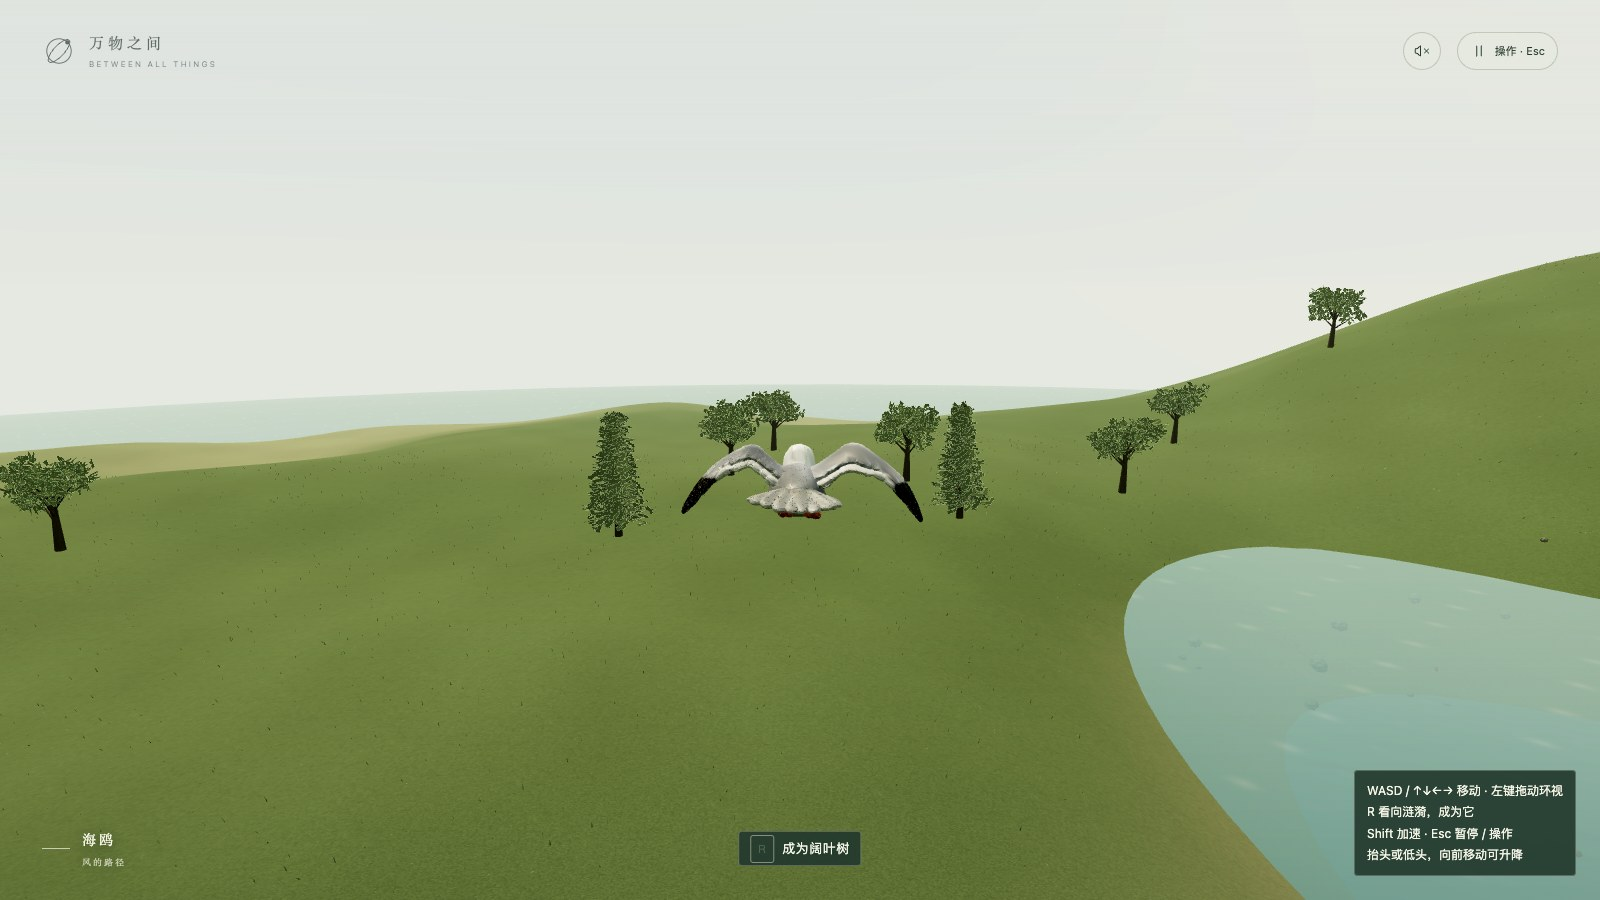
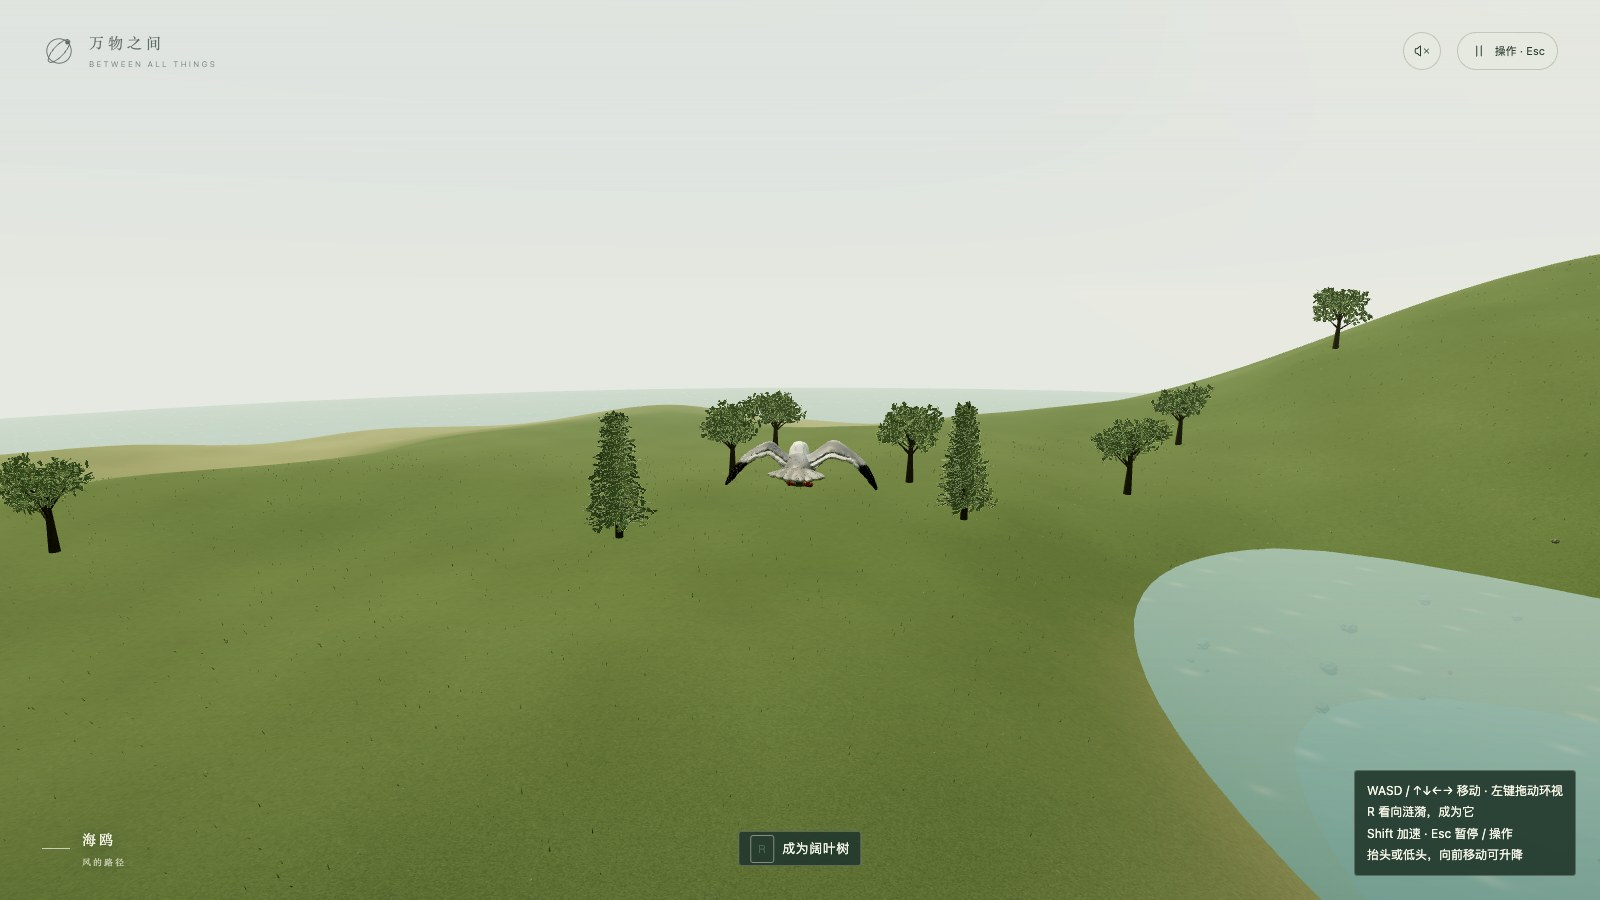
tune: make the gull smaller (body height 0.65 -> 0.32, camera 5 -> 3.5)
Playtest feedback: the gull looked very large from some angles. Wingspan is now
about 1.08 m, matching the scaleTierReason; in-game ambient checks re-run.

diff --git a/assets/lux3d/LUX3D-bird_gull_01/evidence/verify_ambient.py b/assets/lux3d/LUX3D-bird_gull_01/evidence/verify_ambient.py
@@ -107,6 +107,8 @@ assert('a played hatchetfish leaves the school motion to the player',by('silverf
         ('01-gull-low-pass-from-start.jpg', "take('human-first');const t=W.byId.get('gull-0');let k=0;while(k++<200){step(5);const p=t.root.position;if(p.y-W.height(p.x,p.z)<4)break;}g.yaw=.39;g.pitch=.06;step(2);"),
         ('02-gull-flying-high.jpg', "take('gull-1');W.ambient.paused=true;const p=g.player.root.position;p.y=W.height(p.x,p.z)+28;g.pitch=.3;g.yaw=1.4;step(40);g.actions.add('move_forward');step(10);g.actions.delete('move_forward');W.ambient.paused=false;"),
         ('03-hatchetfish-school.jpg', "take('silverfish-0');g.pitch=.05;g.yaw=0;step(30);let best=0;for(let i=0;i<24;i++){g.yaw=i/24*6.283;step(2);}g.yaw=Math.atan2(-(W.byId.get('silverfish-6').root.position.x-g.player.root.position.x),-(W.byId.get('silverfish-6').root.position.z-g.player.root.position.z));step(8);"),
+        ('05-gull-size-next-to-human.jpg', "take('human-first');W.ambient.paused=true;const h=g.player.root.position,t=W.byId.get('gull-0');t.root.position.set(h.x-3.5,h.y+1.6,h.z-7);t.heading=1.2;t.root.rotation.y=1.2;g.yaw=.35;g.pitch=.06;step(20);"),
+        ('06-gull-third-person.jpg', "W.ambient.paused=false;take('gull-2');const p=g.player.root.position;p.y=W.height(p.x,p.z)+14;g.pitch=.12;g.yaw=2.0;step(40);"),
         ('04-discus.jpg', "take('discus-4');const o=W.byId.get('discus-1');g.pitch=.1;step(10);g.yaw=Math.atan2(-(o.root.position.x-g.player.root.position.x),-(o.root.position.z-g.player.root.position.z));step(10);"),
     ]
     for name, body in poses:

diff --git a/project/CHANGELOG.md b/project/CHANGELOG.md
@@ -2,6 +2,15 @@
 
 记录要求与模板见 [CONTRIBUTING](../CONTRIBUTING.md#每次实际修改的变更记录)。每次交付实际修改时更新对应任务条目；新条目置于记录区顶部，同一任务可持续补充，保留他人与历史记录。
 
+## 2026-11-08 · 海鸥体型调小（TUNABLE）
+
+- 负责人：zora-alt111；分支 `asset/fish-birds-v001`，与 D-027 同一 PR。
+- AI：Claude Code（Claude Opus 5.5）负责数值修改、复测与记录；人工：负责人试玩后提出。
+- 原因（试玩反馈）：负责人试玩海鸥 v002 时认为“从某些角度看会变得非常大”，模型本身不够精细，调小观感更好。
+- 旧值 → 新值（`data/entities.json` 的 `bird_gull_01`，B-02／C-05 范围内的数值调整，未改能力、尺度档或关系）：`body.height` 与 `asset.height` 0.65 → 0.32（运行时翼展约 2.20 → 1.08 m，与 `scaleTierReason`“翼展略超 1 m”一致）；`collisionRadius` 0.65 → 0.5；占位碰撞盒按同比例缩小为 `[-0.69, 0, -0.34, 0.69, 0.32, 0.39]`；镜头距离 5.0 → 3.5 m（与鱼相同），描述性的 `camera.height` 0.286 → 0.1408。GLB 文件未重导，由导入器按高度等比缩放。同步 04 种类表。
+- 验证：macOS 14.8.7、Chrome 156：`python3 project/sync_runtime.py`；`python3 project/validate_docs.py` 通过 1719 项；单次加载复跑环境移动核对 15 项全部通过（低飞时人在出生点仍可选中并成为海鸥、海鸥不与实心身体重叠）；新增截图 `05-gull-size-next-to-human.jpg`（与人对比）与 `06-gull-third-person.jpg`（3.5 m 镜头构图）。
+- 未验证项／风险：调小后低飞海鸥在画面中更小，新手能否注意到并选中待真人试玩（QA-48）；3.5 m 镜头在高速飞行与贴近树冠时的观感待试玩。回退：上述字段改回旧值并重跑同步。
+
 ## 2026-11-08 · 鱼和鸟：七彩神仙鱼、银斧鱼、海鸥 v002 与环境移动（D-027）
 
 - 负责人：zora-alt111；分支 `asset/fish-birds-v001`（已合并 `origin/main` 197f216，解决 04／06／11／CHANGELOG 的文字冲突，两边内容都保留），PR 待关联；按负责人要求与本分支的海鸥 v001、开局可选海鸥两条记录放在同一个 PR。

diff --git a/assets/lux3d/LUX3D-bird_gull_01/evidence/README.md b/assets/lux3d/LUX3D-bird_gull_01/evidence/README.md
@@ -11,6 +11,15 @@
 
 自动核对：4 只海鸥都使用 `bird_gull_01-v002.glb` 且沿航线移动；60 秒内不低于地面 1.5 m、不与实心身体重叠；有扇翅（爬升）也有滑翔；`gull-0` 最低降到离地 2.50 m，低飞时人在出生点可选中并按 R 成为它；被占据时不被航线带走，离开后静止约 4 秒再归队。
 
+### 体型调小（2026-11-08）
+
+`body.height` 0.65 → 0.32、镜头距离 5 → 3.5 后复跑 `verify_ambient.py`，15 项全部通过（结果覆盖 `verify-ambient-result.json`）。
+
+| 文件 | 内容 |
+| --- | --- |
+| `05-gull-size-next-to-human.jpg` | 调小后的海鸥（人物左上方）与人的大小对比 |
+| `06-gull-third-person.jpg` | 成为海鸥后在湖面上空，镜头距离 3.5 m 的构图 |
+
 ## v001（2026-11-07）
 
 日期：2026-11-07。分支 `asset/fish-birds-v001` 提交前的工作区；macOS 14.8.7、Chrome 156 无头模式、SwiftShader 软件渲染，1600 × 900。通过调试接口（`?debug`）摆放身体与镜头，不是连续试玩录像。脚本：`verify_gull.py`；结果：`verify-result.json`（14 项全部通过，游戏加载约 8–25 s）。

diff --git a/docs/04-entity-catalog.md b/docs/04-entity-catalog.md
@@ -45,7 +45,7 @@
 | `rock_coast_01` | 海岸岩石 | rock | L1 身体 | S2 | 地面 | 9 | 100 | 2 | 8 | 48° | 实心·绕行 |
 | `rock_large_01` | 海岸巨岩 | rock | L2 地貌 | S4 | 地面 | 75 | 1000 | 70 | 230 | 48° | 实心·绕行 |
 | `island_01` | 岛屿 | island | L3 岛屿 | S5 | 海面漂移 | 230 | 16000 | 85 | 1450 | 48° | 实心·绕行 |
-| `bird_gull_01` | 海鸥 | bird | L1 身体 | S1 | 飞行·随视线升降 | 18 | 130 | 0.65 | 5 | 52° | 实心·绕行 |
+| `bird_gull_01` | 海鸥 | bird | L1 身体 | S1 | 飞行·随视线升降 | 18 | 130 | 0.32 | 3.5 | 52° | 实心·绕行 |
 | `fish_silver_01` | 银斧鱼 | fish | L1 身体 | S1 | 游泳·随视线升降 | 9 | 100 | 0.32 | 3.5 | 58° | 实心·绕行 |
 | `fish_discus_01` | 七彩神仙鱼 | fish | L1 身体 | S1 | 游泳·随视线升降 | 7 | 100 | 0.45 | 3.5 | 58° | 实心·绕行 |
 | `human_01` | 人 | human | L1 身体 | S2 | 地面 | 6 | 65 | 1.75 | 5 | 48° | 实心·绕行 |

diff --git a/assets/lux3d/LUX3D-bird_gull_01/export/v002/README.md b/assets/lux3d/LUX3D-bird_gull_01/export/v002/README.md
@@ -3,4 +3,5 @@
 - 文件：`frontend/public/models/bird_gull_01-v002.glb`，1,766,232 字节，SHA-256 9c1907d0a79b6914362a40151d461c0c79f4c8fa39ca018b0144446005965331
 - 网格 20,000 三角面；贴图 JPEG 内嵌；骨骼 10 根；动作 `Glide`（idle）、`Flap`（move）。
 - 尺寸（米，+Y 上）：翼展 2.198 × 身高 0.650 × 体长 1.673；原点底部中心；正面 -Z；碰撞 `auto_bounds`。
+- 游戏内尺寸：2026-11-08 按负责人试玩反馈把 `body.height`／`asset.height` 从 0.65 调到 0.32，运行时等比缩放后翼展约 1.08 m、体长约 0.82 m（GLB 文件本身未重导）。
 - 槽：`url=./public/models/bird_gull_01-v002.glb`，`ledgerId=LUX3D-bird_gull_01-v002`；v001 文件保留作回退。
